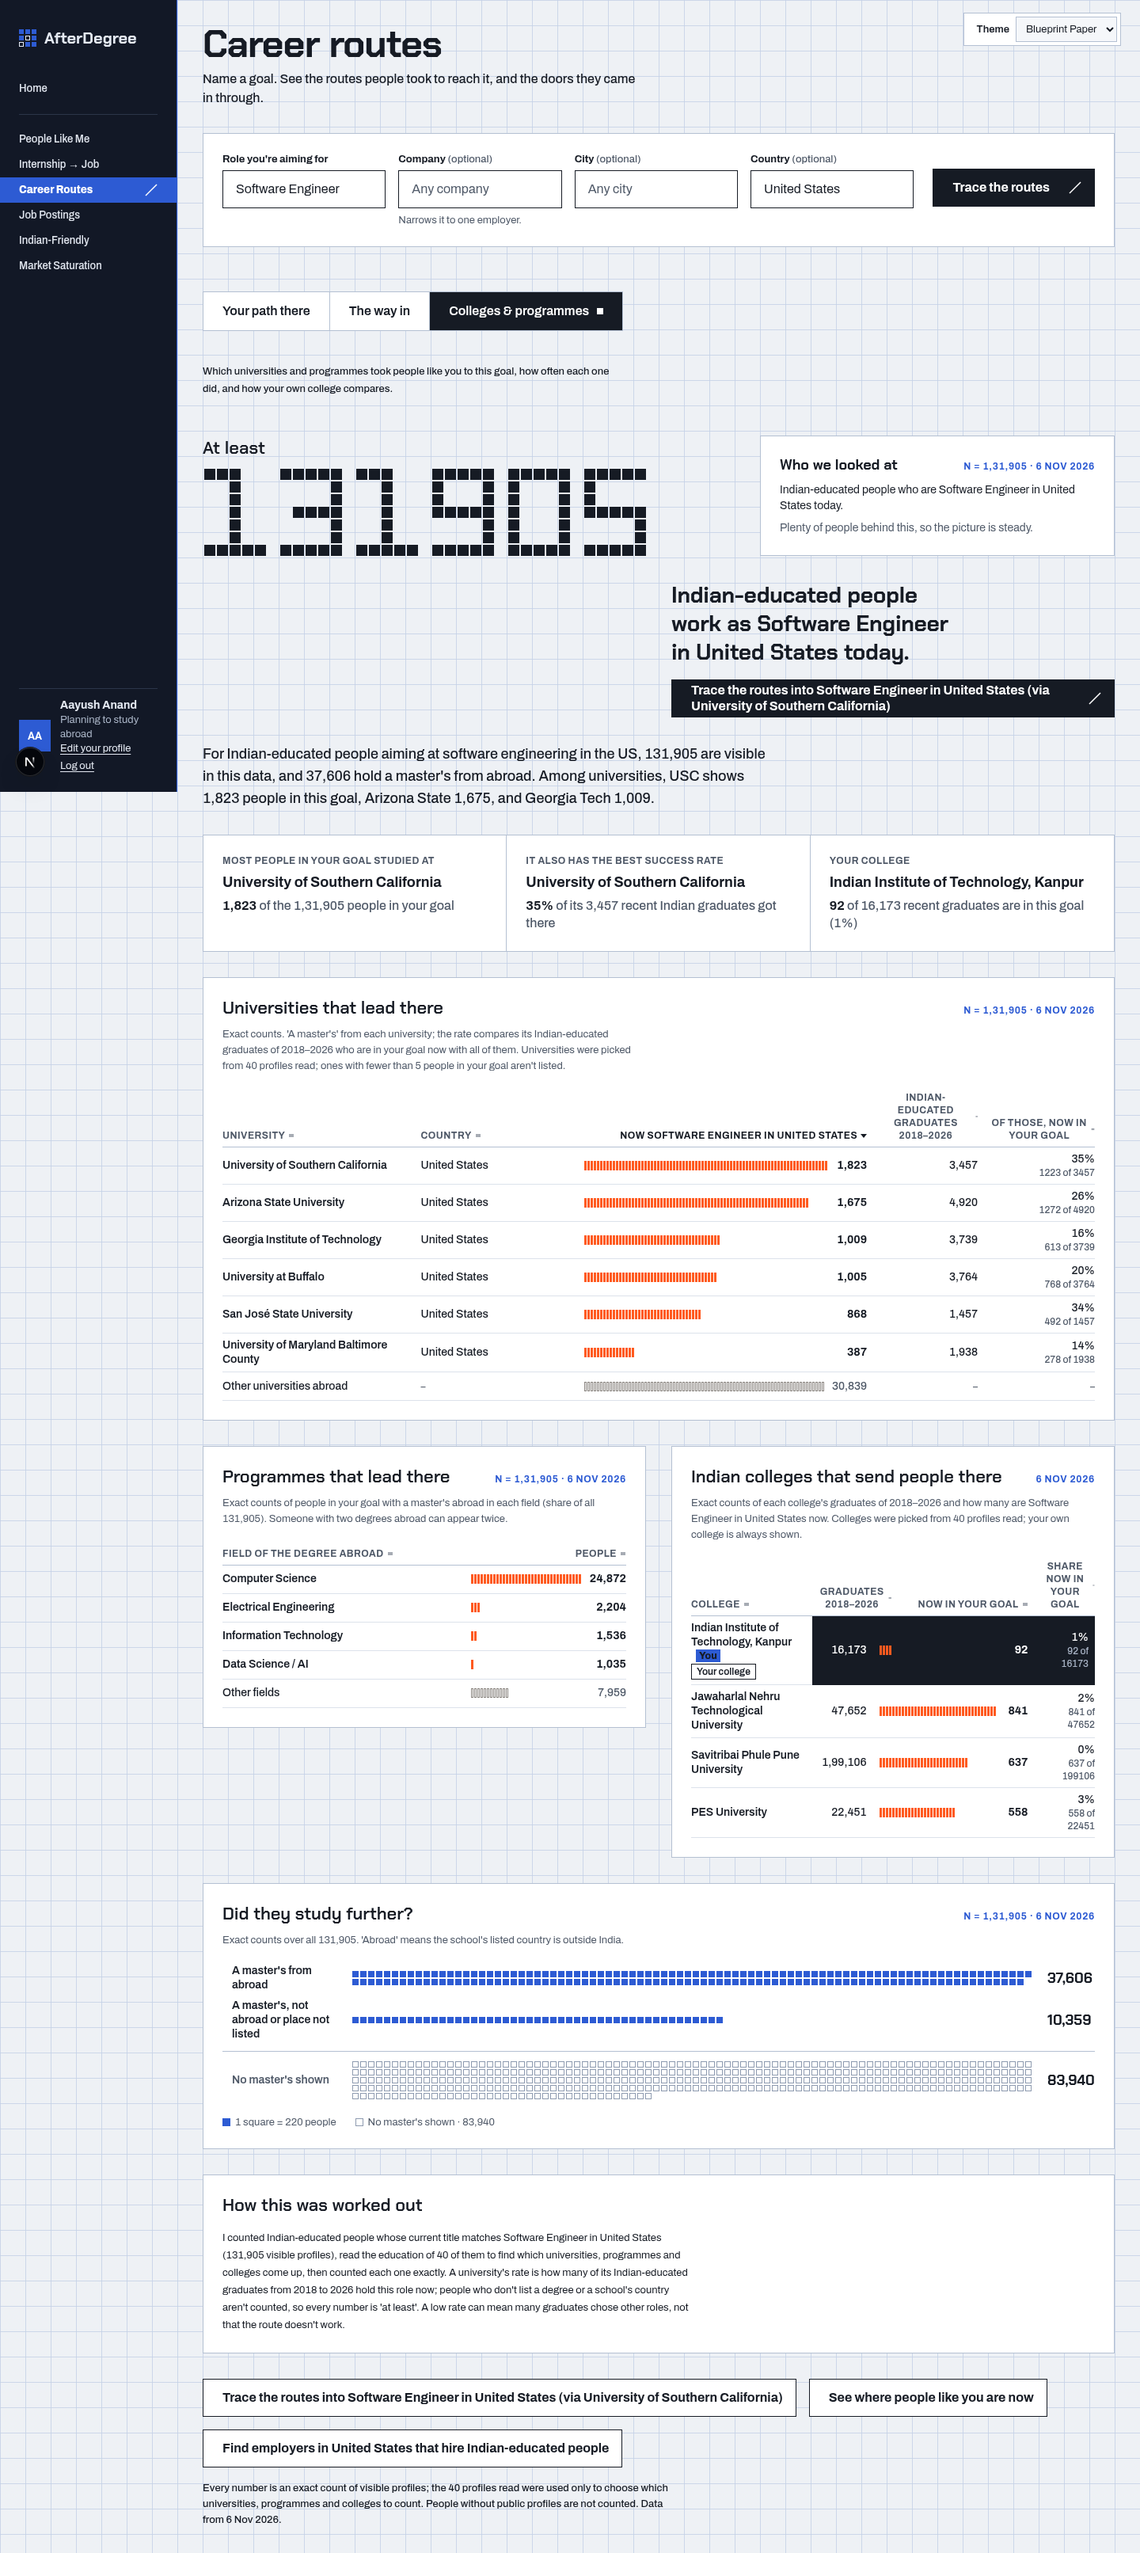
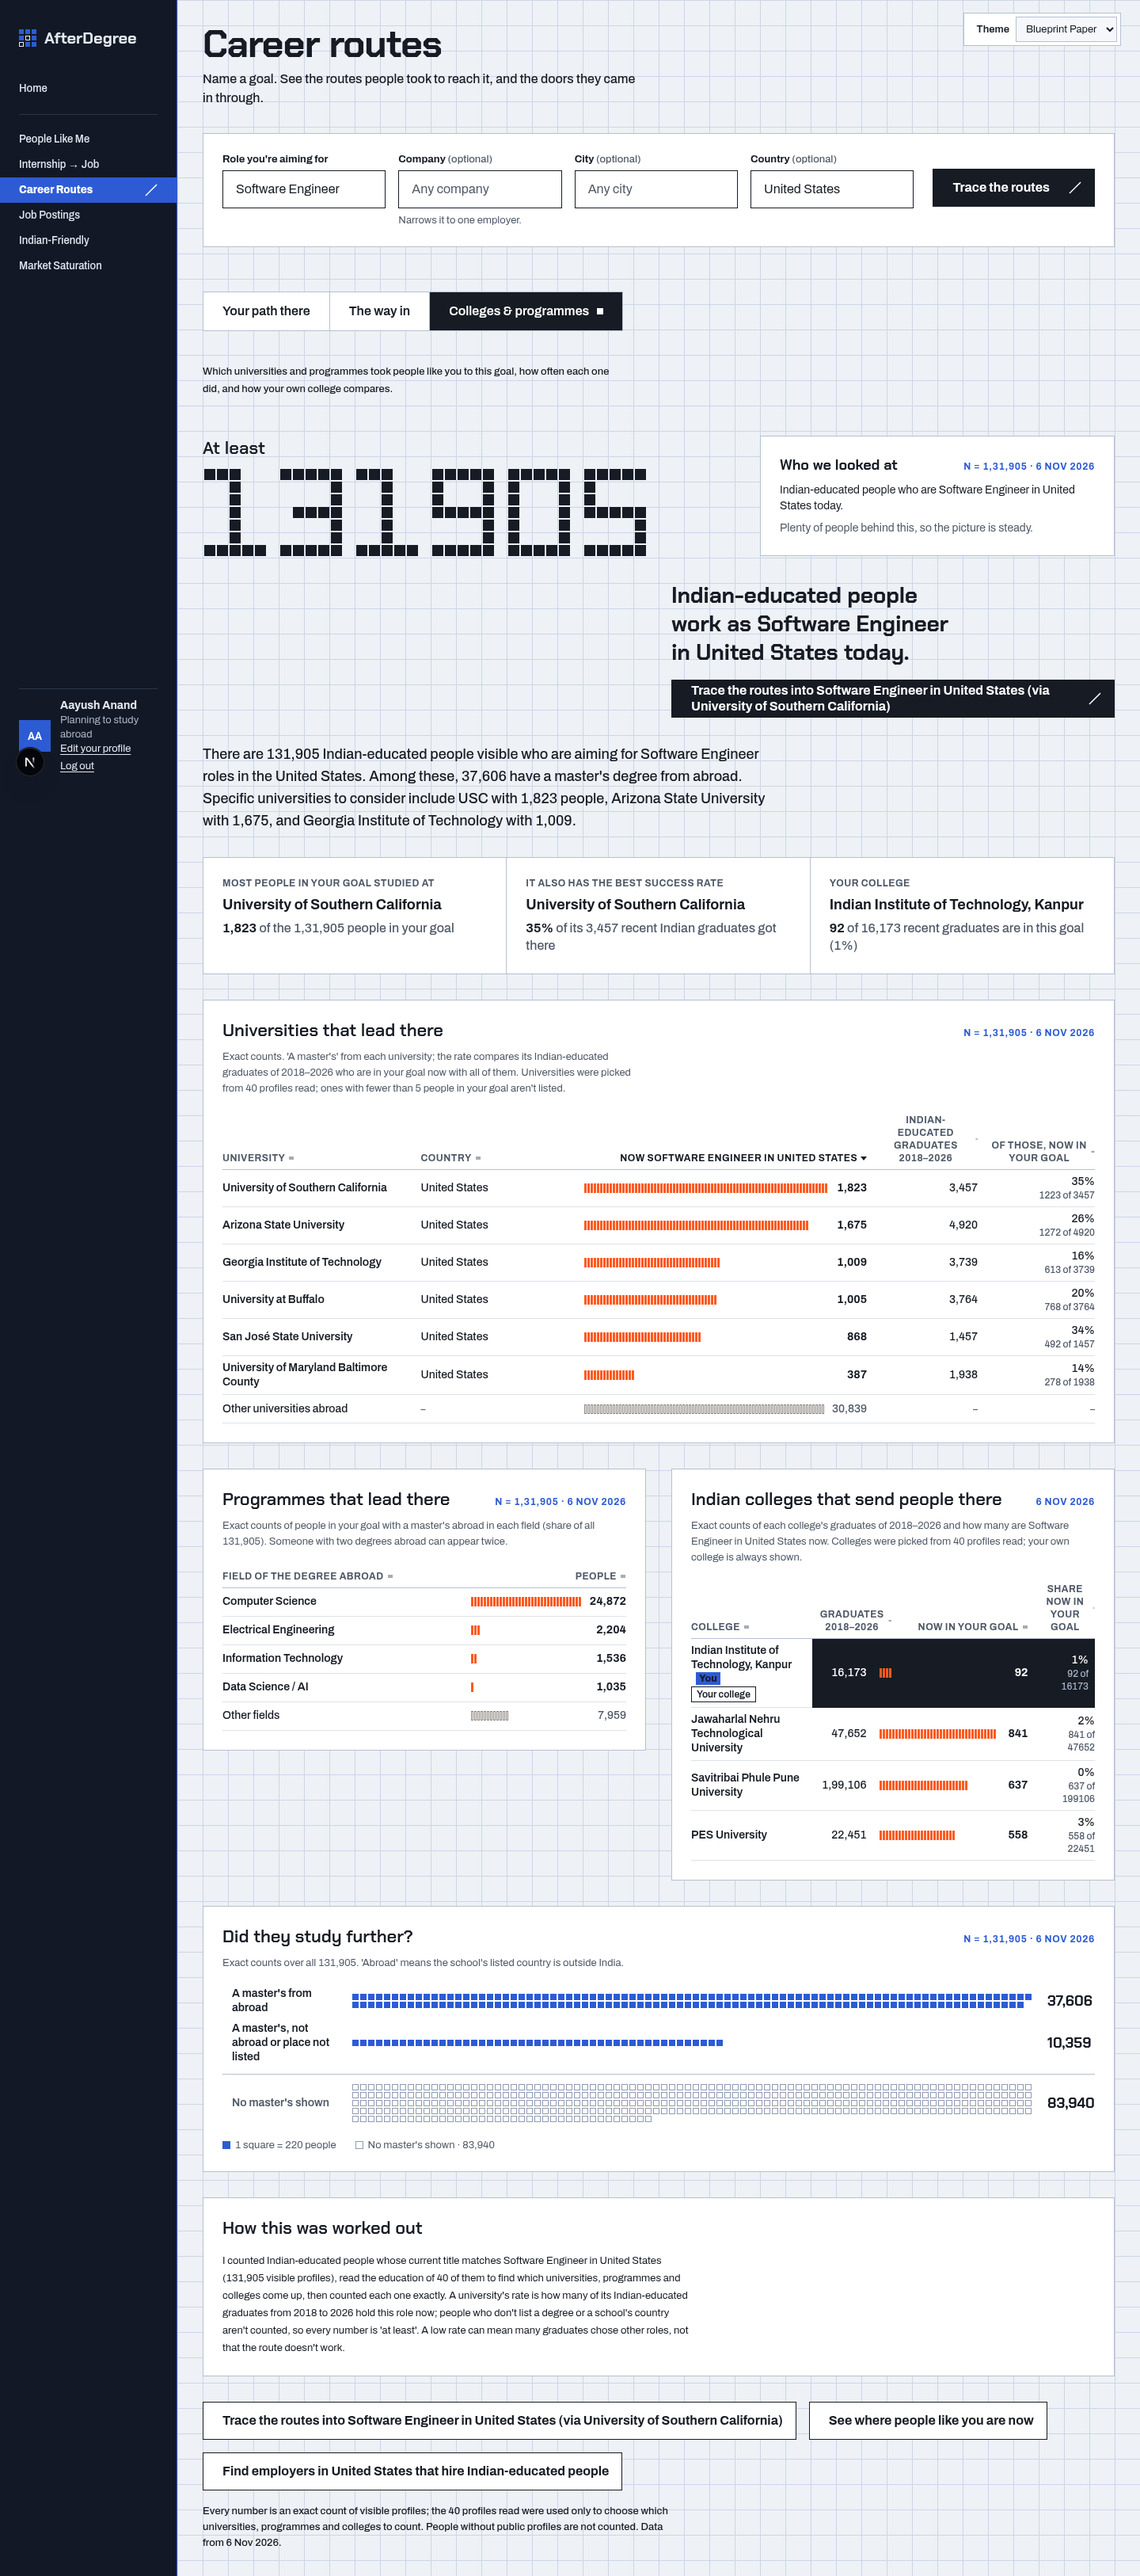
Sidebar column runs the full page height; retake README screenshots

diff --git a/web/src/components/shell/AppShell.module.css b/web/src/components/shell/AppShell.module.css
@@ -1,6 +1,19 @@
 .shell {
   min-height: 100vh;
 }
+/* The rail is fixed to the viewport; paint its column down the full page too, so long pages
+   (and full-page screenshots or prints) never show the rail ending part way. */
+@media (min-width: 900px) {
+  .shell {
+    background: linear-gradient(
+      to right,
+      var(--ad-rail) calc(var(--ad-rail-w) - 1px),
+      var(--ad-rail-edge, var(--ad-rail)) calc(var(--ad-rail-w) - 1px),
+      var(--ad-rail-edge, var(--ad-rail)) var(--ad-rail-w),
+      transparent var(--ad-rail-w)
+    );
+  }
+}
 .rail {
   --ad-focus: var(--ad-paper);
   position: fixed;
